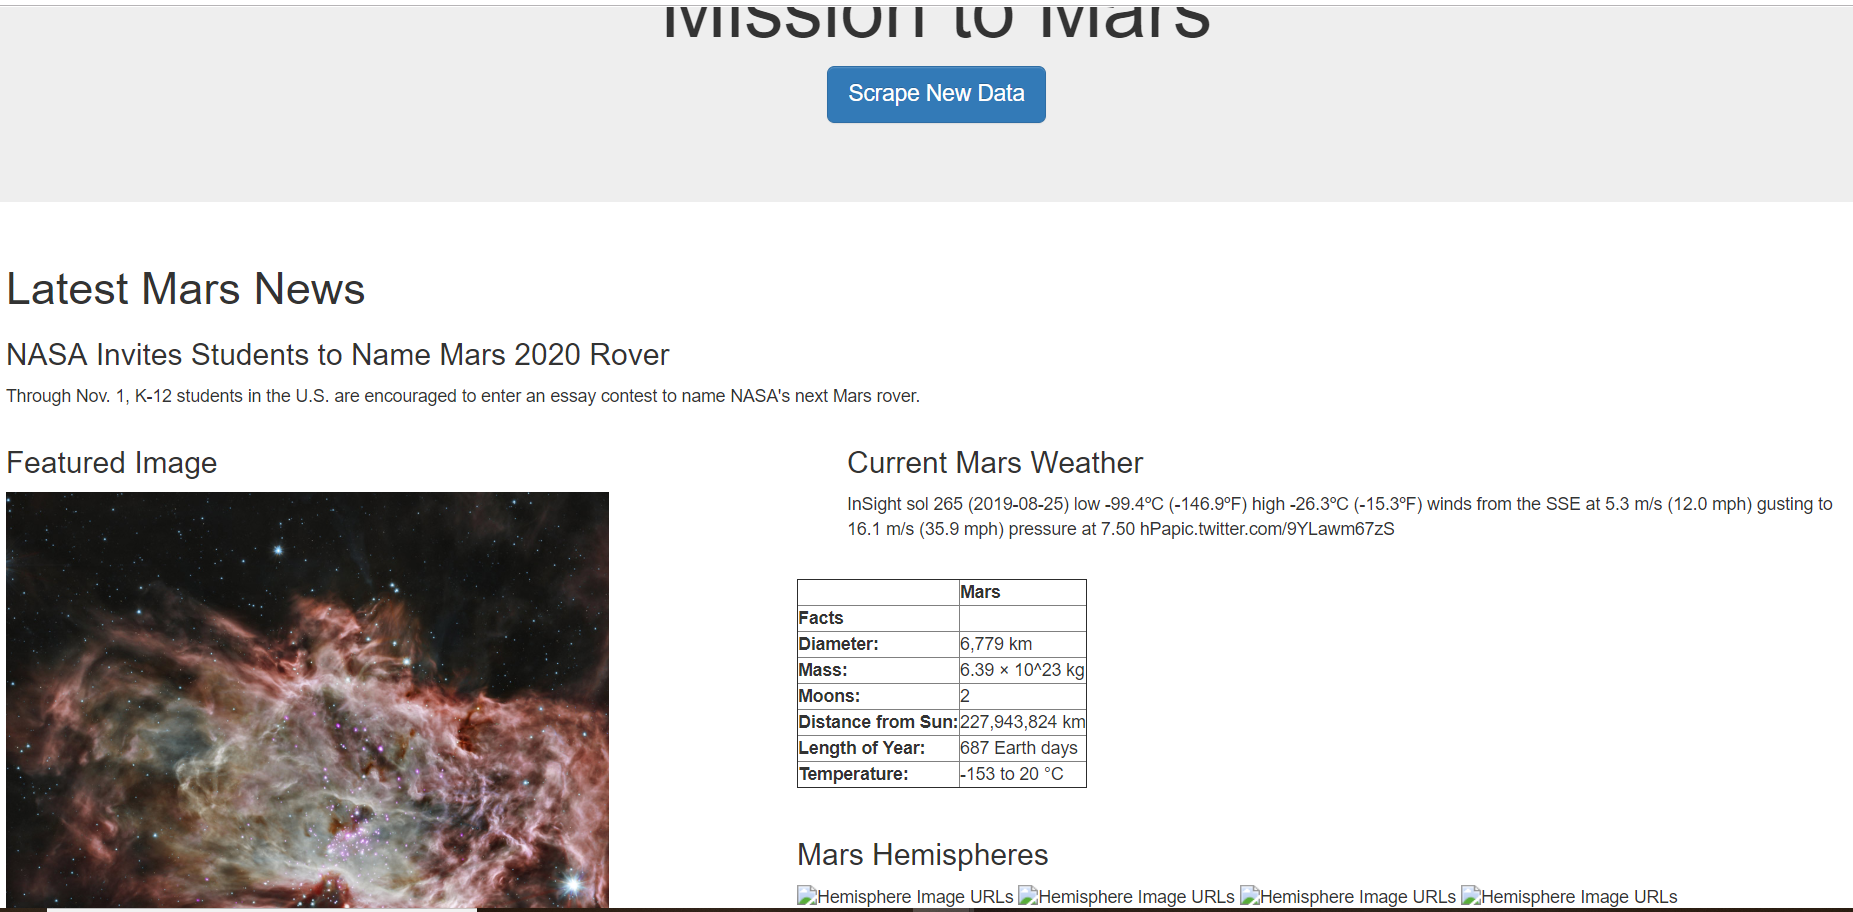
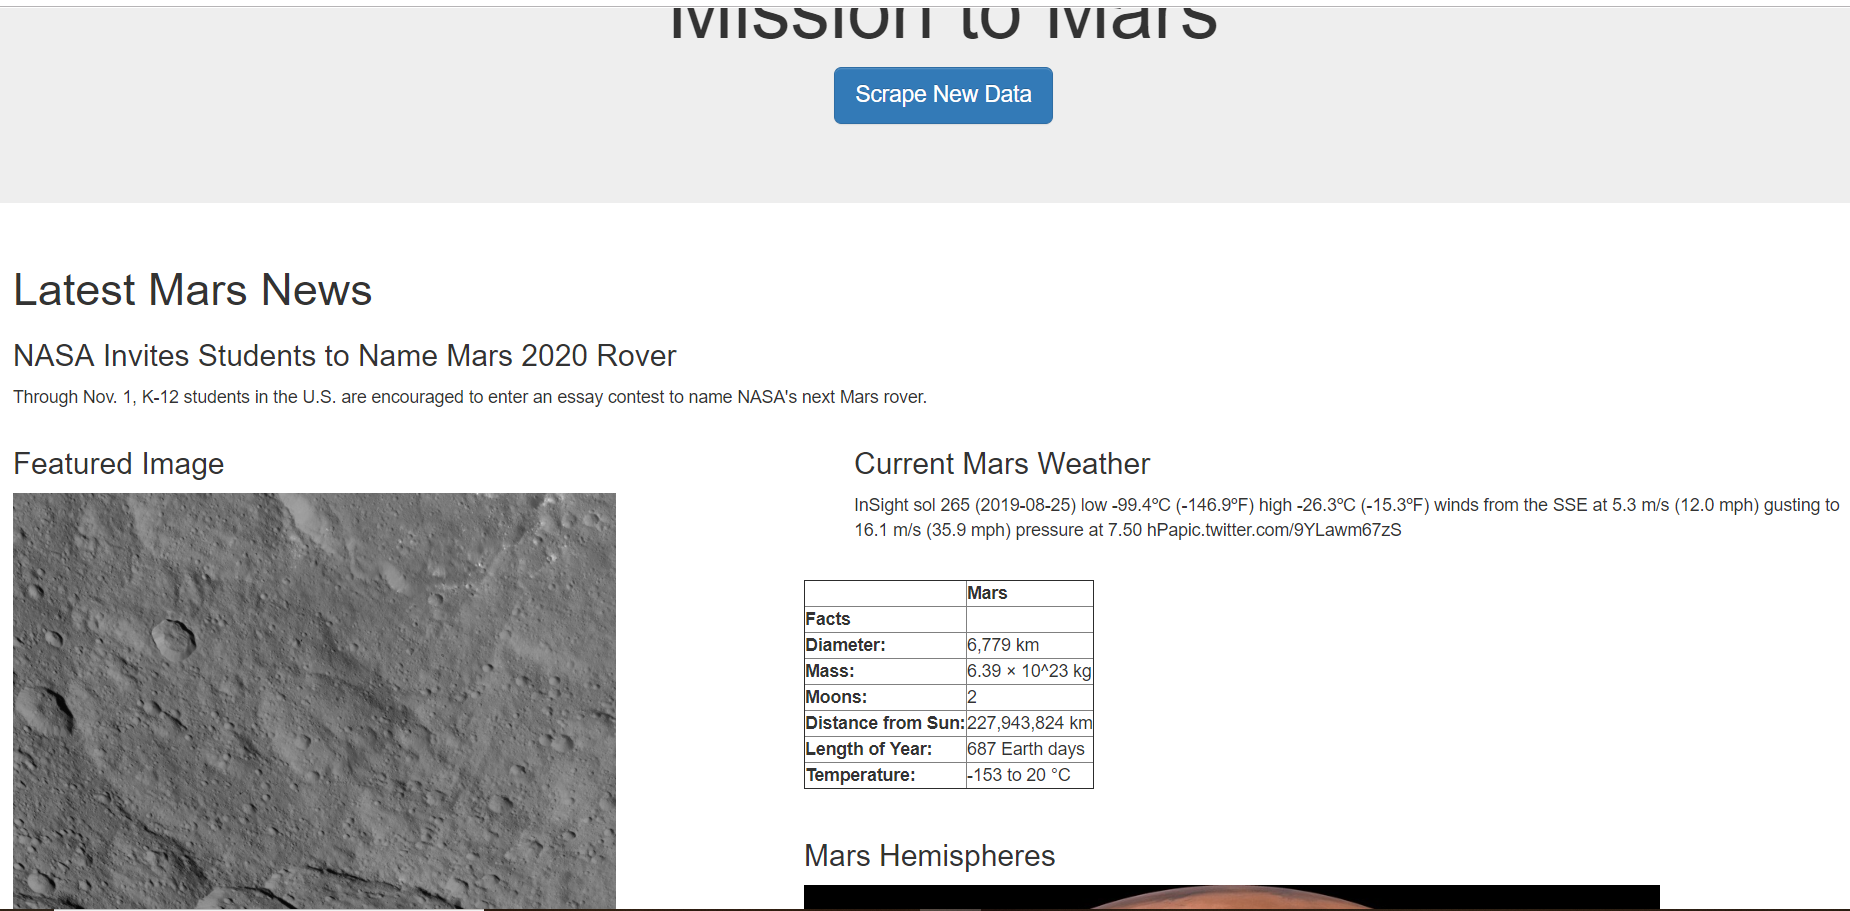
update

diff --git a/templates/index.html b/templates/index.html
@@ -117,7 +117,7 @@
 
                 <h3>Mars Hemispheres</h3>
                 {% for d in data['Hemisphere Image URLs'] %}
-                <img src="{{data['Hemisphere Image URLs']}}" alt="Hemisphere Image URLs" style="width: 80%;">
+                <img src="{{d['img_url']}}" title="{{d['title']}}" alt="Hemisphere Image URLs" style="width: 80%;">
                 {% endfor %}
 
                 </div>
